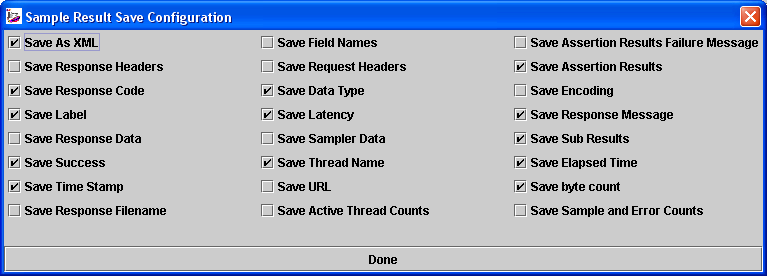
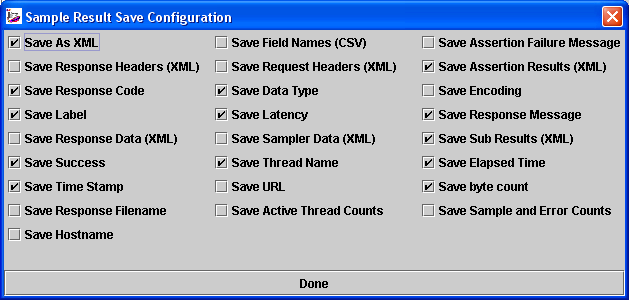
Updated version of Save Config (hostname and CSV/XML suffixes)
git-svn-id: https://svn.apache.org/repos/asf/jakarta/jmeter/trunk/docs@595504 13f79535-47bb-0310-9956-ffa450edef68

Changed region(s): [[0.0, 0.0, 1.0, 0.8116], [0.0, 0.8696, 0.9968, 1.0]]

diff --git a/usermanual/component_reference.html b/usermanual/component_reference.html
@@ -5482,12 +5482,14 @@ The defaults are defined as described in  the
 								Listener Default Configuration
 						</a>
 									 documentation.
+Items with (CSV) only apply to the CSV format; items wint (XML) only apply to XML format.
+CSV format cannot be used to save any items that include line-breaks.
 
 						</p>
 									
 
 														<p><b>Control Panel</b></p>
-						<div align="center"><img width='767' height='276' src="../images/screenshots/sample_result_config.png"></div>
+						<div align="center"><img width='629' height='300' src="../images/screenshots/sample_result_config.png"></div>
 											  		</td></tr>
 		<tr><td><br></td></tr>
 	 </table>

diff --git a/changes.html b/changes.html
@@ -232,6 +232,16 @@ This corrects discrepancies between Summary Report and Aggregate Report throughp
 						</li>
 									
 
+												<li	>
+								Default HTTPSampleResult to ISO-8859-1 encoding
+						</li>
+									
+
+												<li	>
+								Fix default encoding for blank encoding
+						</li>
+									
+
 						</ul>
 							  									 				<h4	>
 								Improvements
